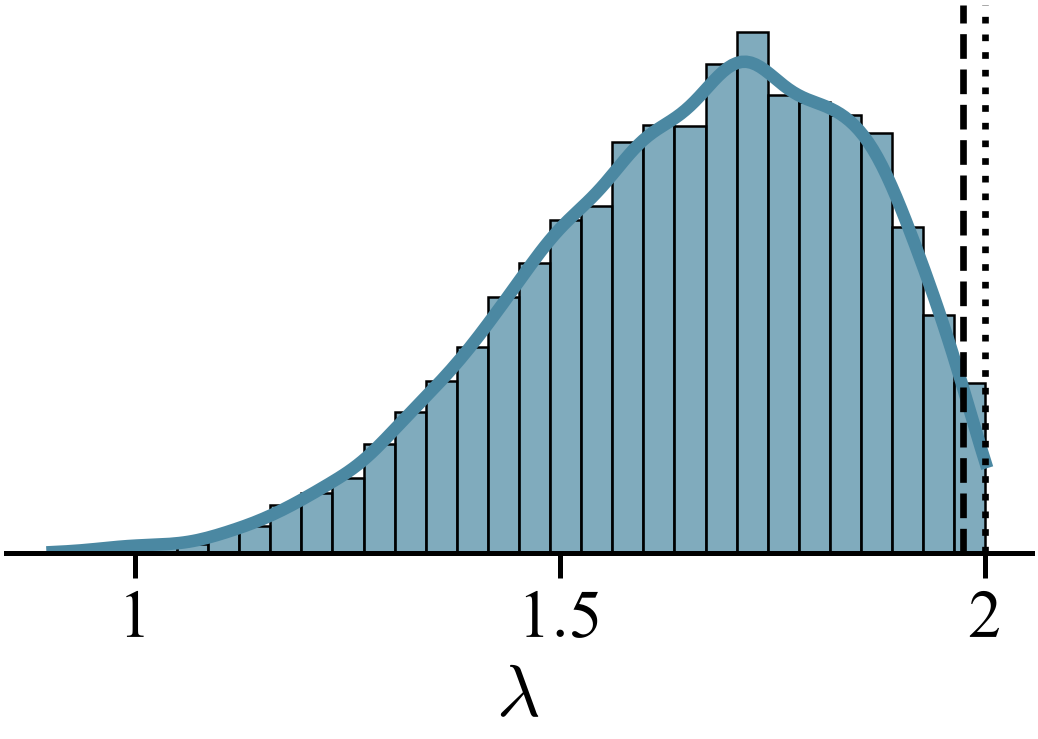
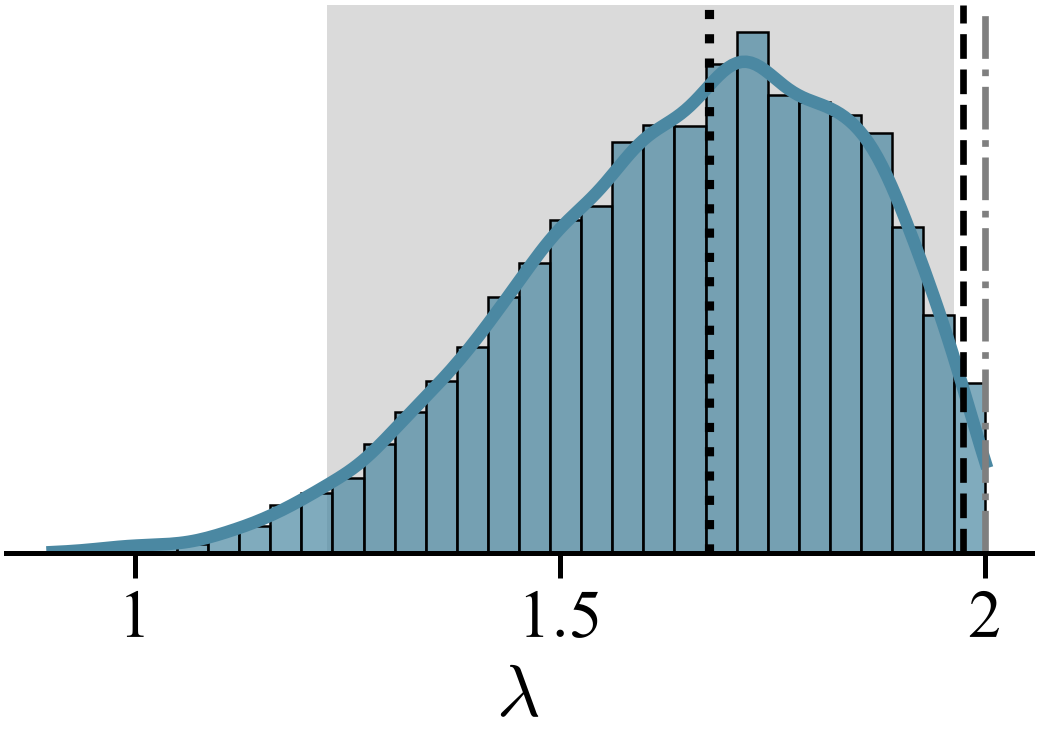
Draw the posterior median and 95% credible interval on the histograms
The posterior histograms of Tables 4.5, 4.11, 4.14 and 4.18 printed the median and the
95% credible interval above each panel without drawing them. They now show the interval
as a gray band and the median as a dotted line, keep the dashed line at the
maximum-likelihood sample, and draw the prior bounds as gray dash-dotted lines so they
are not confused with the median. The twelve panels were regenerated from the stored
chains; no estimate changed.

diff --git a/01_control_growth/thesis_style.py b/01_control_growth/thesis_style.py
@@ -19,6 +19,7 @@ import numpy as np
 BAND = 'lightblue'
 PREDICTIVE = 'peachpuff'
 HIST = '#4B88A2'
+CRI_BAND = '#BDBDBD'   # 95% credible interval behind the posterior histograms
 PASTEL = {'sensitive': '#a1c9f4', 'resistant': '#ffb482', 'global': '#8de5a1'}   # seaborn "pastel" 0, 1, 2
 VOLUME_LABEL = r'Tumor Volume ($\times10^3$ mm³)'
 
@@ -191,21 +192,27 @@ def posterior_histogram(samples, best, path, width_on_page, label, bounds=None):
     """Posterior histogram with kernel density, drawn at the width it has on the printed page.
 
     `width_on_page` is that width in inches and `label` the parameter written below the axis, so that the
-    text of the panel is printed at the 9 pt of the thesis. The dashed line marks the maximum-likelihood
-    sample and the dotted lines the prior bounds, drawn only when they fall inside the plotted range.
+    text of the panel is printed at the 9 pt of the thesis. The gray band is the 95% credible interval
+    (percentiles 2.5 and 97.5) and the dotted line the posterior median, the two summaries printed above
+    each panel; the dashed line marks the maximum-likelihood sample and the gray dash-dotted lines the
+    prior bounds, drawn only when they fall inside the plotted range.
     Tick labels are mantissas and the power of ten is written in the label."""
     import seaborn as sns
 
     times_font(PANEL_FONT)
     plt.rcParams['mathtext.fontset'] = 'cm'   # mathematics as in the body text
     fig, ax = plt.subplots(figsize=(width_on_page, width_on_page * PANEL_ASPECT))
-    sns.histplot(np.asarray(samples, float), bins=30, kde=True, ax=ax, color=HIST, alpha=0.7, linewidth=0.3)
+    x = np.asarray(samples, float)
+    q_lo, q_med, q_hi = np.percentile(x, [2.5, 50.0, 97.5])
+    ax.axvspan(q_lo, q_hi, color=CRI_BAND, alpha=0.55, linewidth=0, zorder=0)
+    sns.histplot(x, bins=30, kde=True, ax=ax, color=HIST, alpha=0.7, linewidth=0.3)
+    ax.axvline(q_med, linestyle=':', linewidth=1.1, color='black')
     if best is not None:
         ax.axvline(float(best), linestyle='--', linewidth=0.8, color='black')
     lo, hi = ax.get_xlim()
     for bound in bounds or ():
         if lo <= float(bound) <= hi:
-            ax.axvline(float(bound), linestyle=':', linewidth=0.8, color='black')
+            ax.axvline(float(bound), linestyle='-.', linewidth=0.8, color='#7F7F7F')
     ax.set_ylabel('')
     ax.set_yticks([])
     ax.xaxis.set_major_locator(mticker.MaxNLocator(nbins=3, steps=[1, 2, 2.5, 5, 10]))
